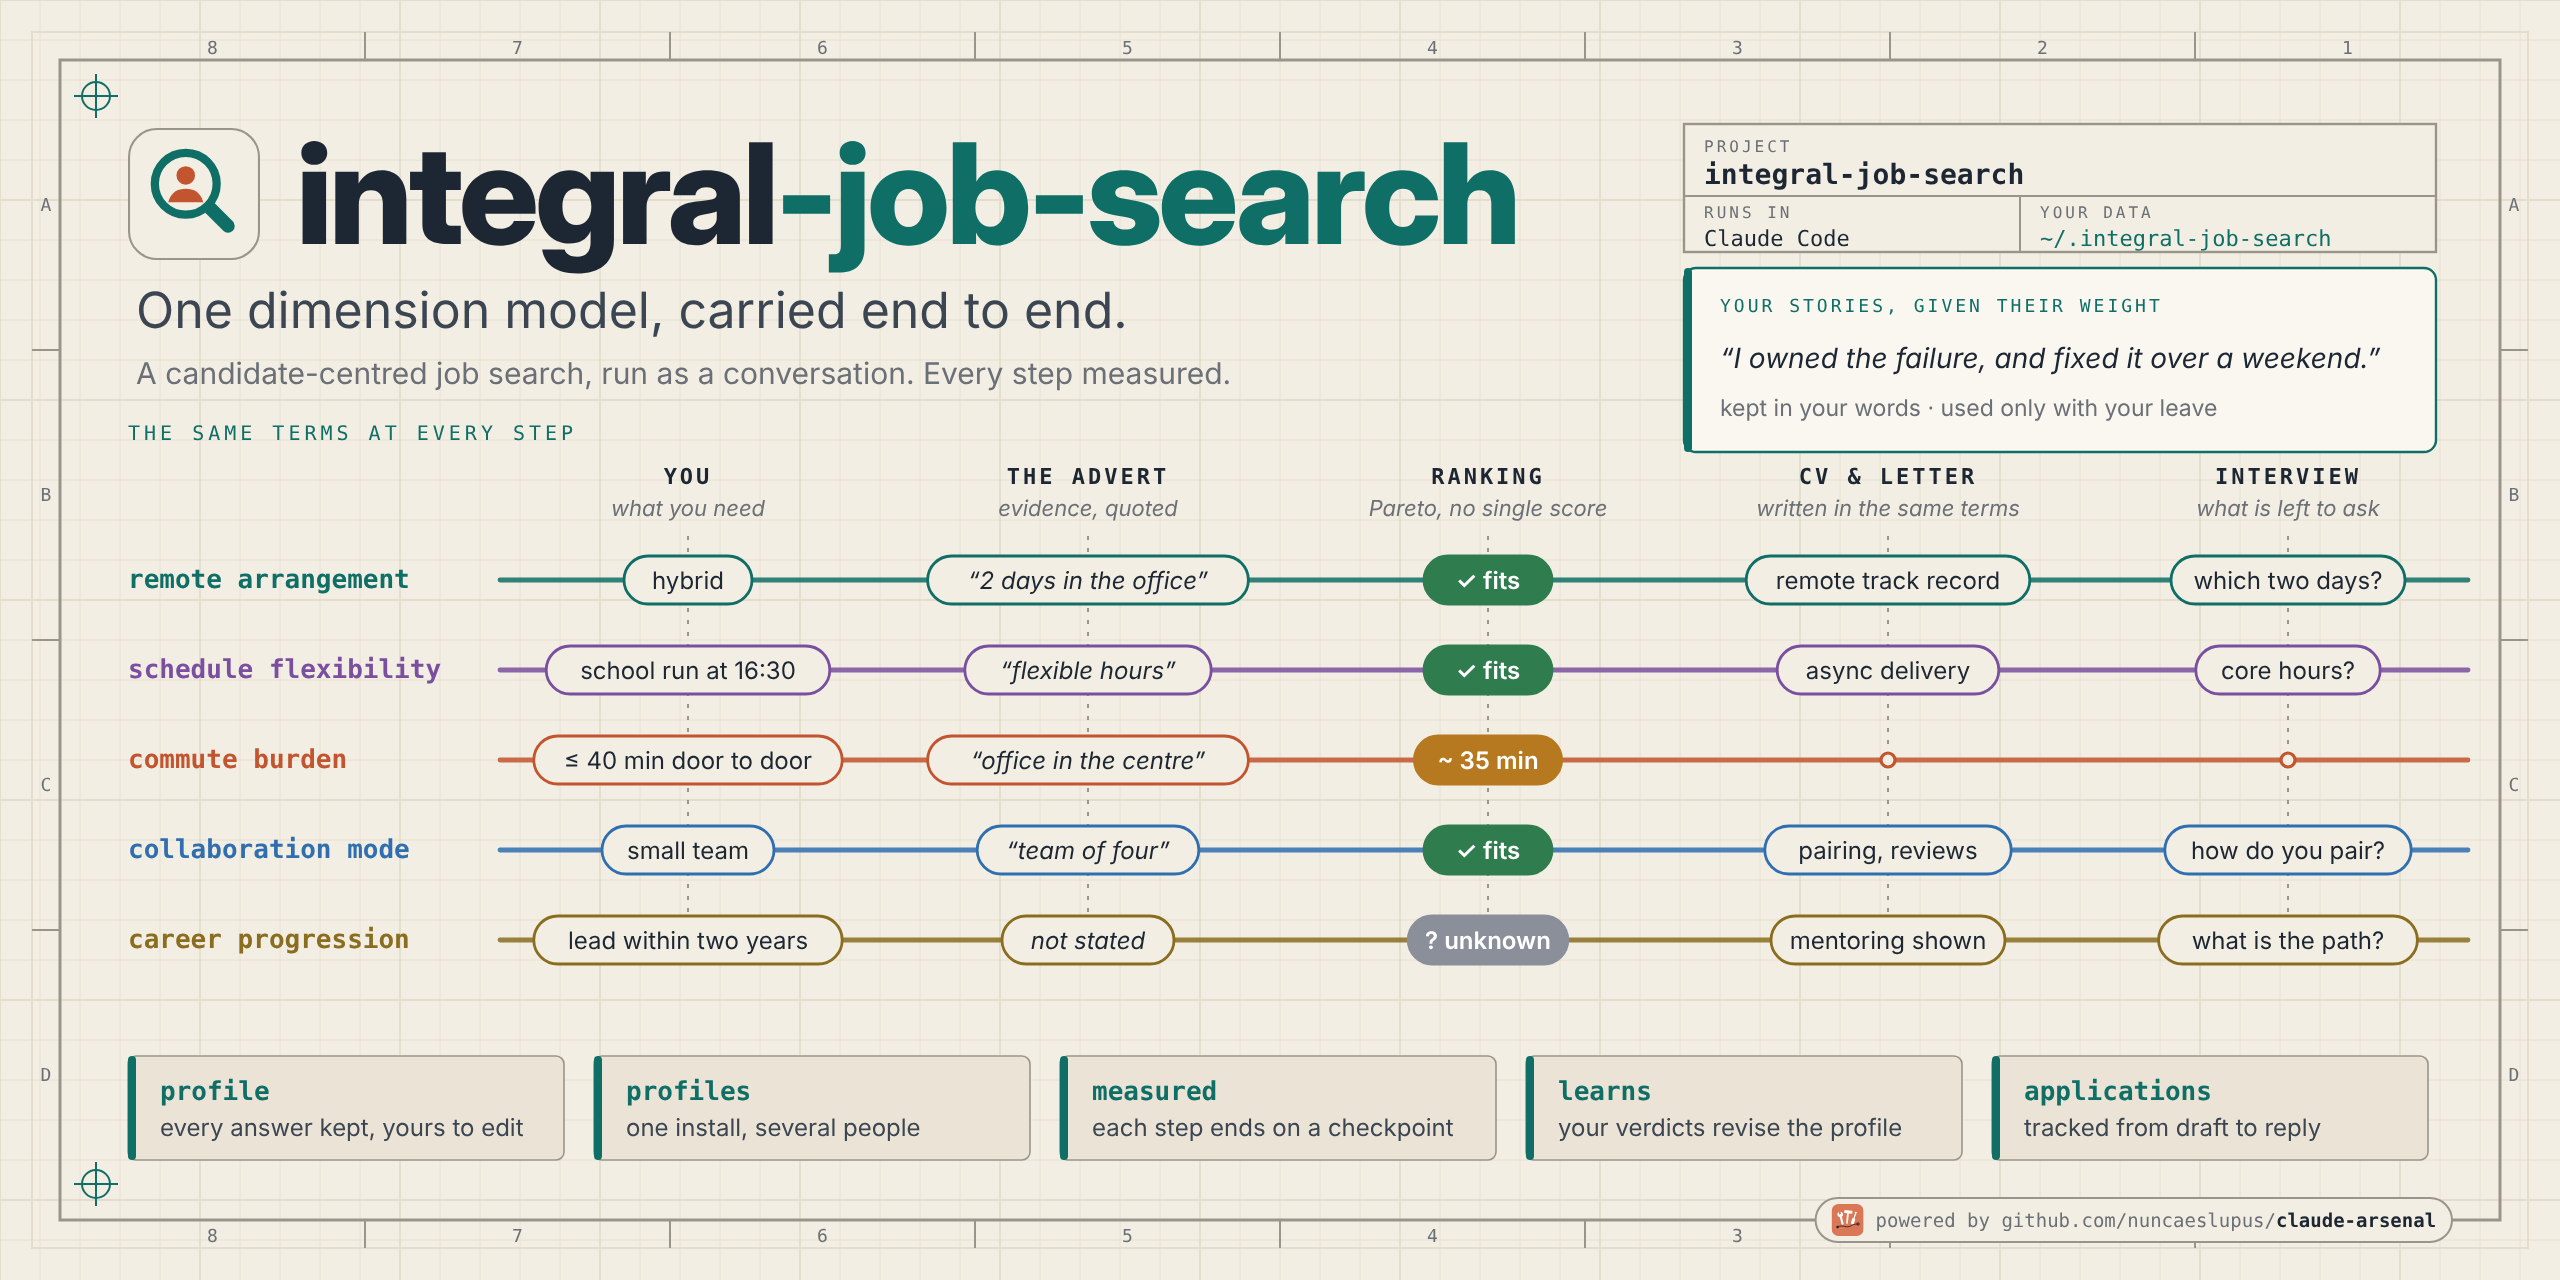
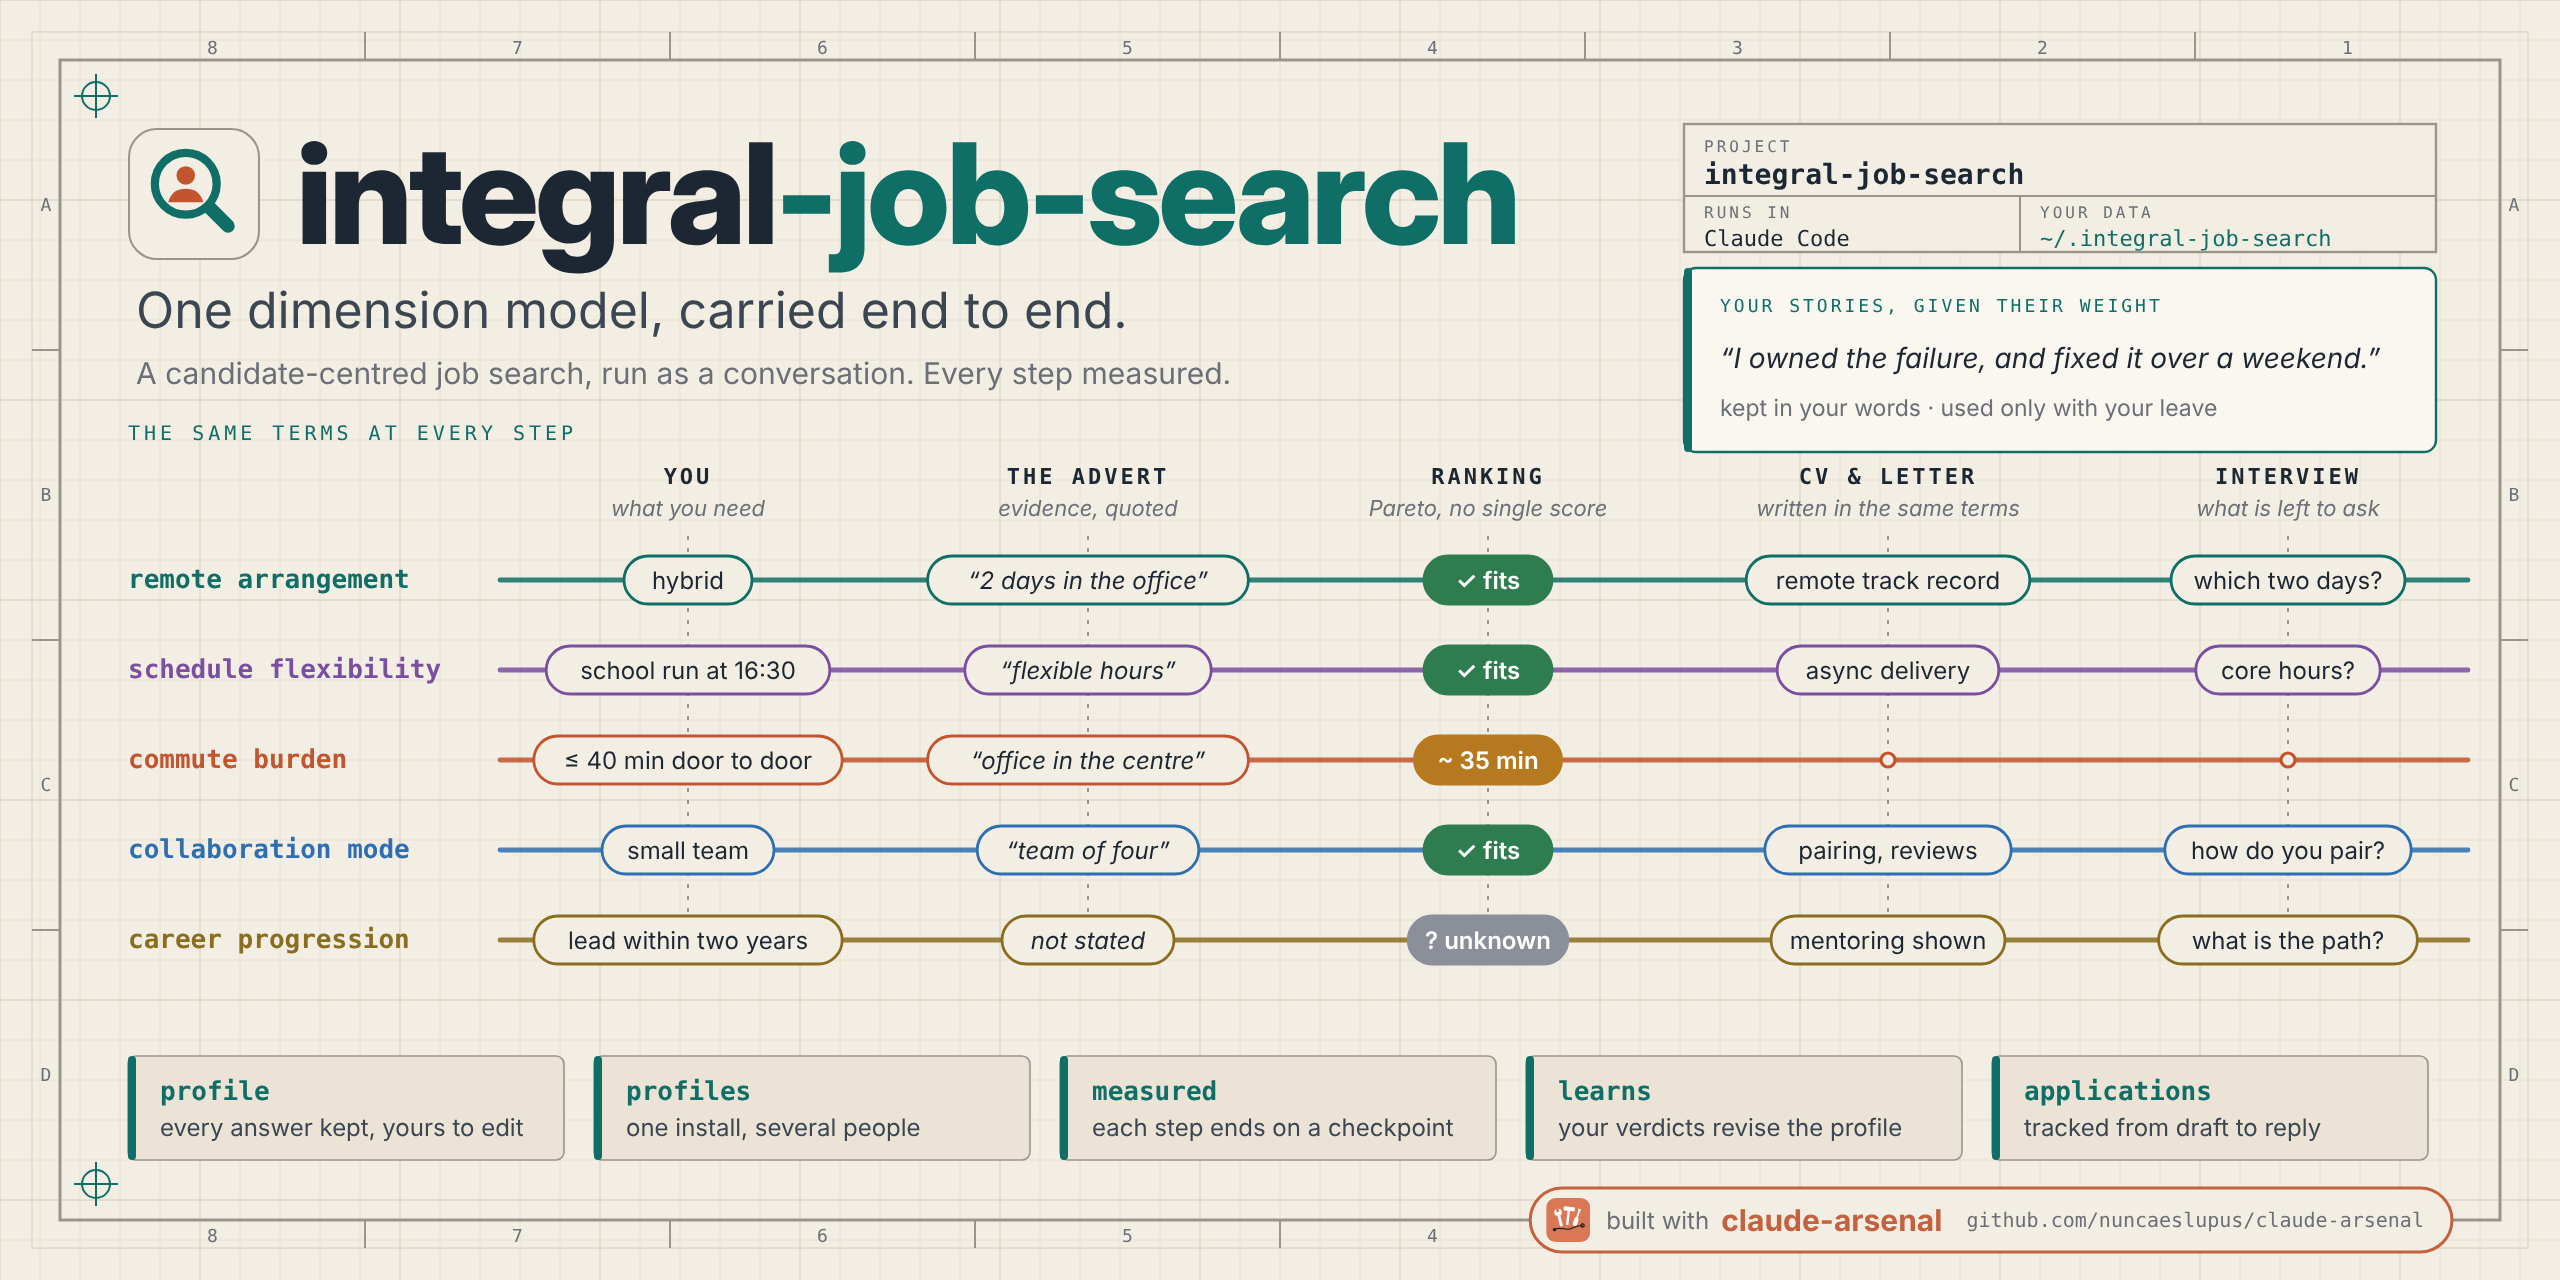
docs(hero): make the claude-arsenal stamp a bold "built with" badge
Set "claude-arsenal" large and bold in the arsenal orange inside an orange-bordered pill, so the credit reads at README scale.

Claude-Session: https://claude.ai/code/session_01LCwNvQnUhGTW4nvYBmNboX

Changed region(s): [[0.5938, 0.9062, 0.9688, 1.0]]

diff --git a/tools/hero.py b/tools/hero.py
@@ -342,27 +342,46 @@ def features() -> list[str]:
     return out
 
 
-#: claude-arsenal's own logo, for the "powered by" stamp on the frame.
+#: claude-arsenal's own logo, for the "built with" stamp on the frame.
 ARSENAL_LOGO = ROOT / "docs" / "claude-arsenal-logo.svg"
+ARSENAL = "#c4623f"  # claude-arsenal's own orange
+#: DejaVu Sans Mono's advance, in em.
+MONO_EM = 0.602
+
+
+def width(s: str, size: float, face: str) -> float:
+    """Advance of `s` in an installed face (an fc-match pattern)."""
+    from PIL import ImageFont  # type: ignore[import-not-found, unused-ignore]
+
+    path = subprocess.run(
+        ["fc-match", "-f", "%{file}", face], capture_output=True, text=True, check=True
+    ).stdout
+    return float(ImageFont.truetype(path, 100).getlength(s)) * size / 100
 
 
 def powered_by() -> list[str]:
-    """A "powered by" stamp for claude-arsenal, set on the frame's bottom edge at the right."""
+    """A "built with" badge for claude-arsenal, set on the frame's bottom edge at the right."""
     src = ARSENAL_LOGO.read_text().strip()
     inner = src[src.index(">") + 1 : src.rindex("</svg>")]
-    lead, name = "powered by github.com/nuncaeslupus/", "claude-arsenal"
-    size, tile, pad, gap = 9.5, 16, 8, 6
-    width = pad + tile + gap + (len(lead) + len(name)) * size * 0.602 + pad
+    lead, name, url = "built with", "claude-arsenal", "github.com/nuncaeslupus/claude-arsenal"
+    tile, pad, gap = 22, 8, 8
+    lead_w = width(lead, 12, "Inter")
+    name_w = width(name, 15, "Inter:bold")
+    url_w = len(url) * 10 * MONO_EM
+    total = pad + tile + gap + lead_w + 6 + name_w + 12 + url_w + pad + 6
     right, cy = W - 30 - 24, H - 30
-    x = right - width
+    x = right - total
+    tx = x + pad + tile + gap
     return [
-        f'<rect x="{x:.1f}" y="{cy - 11}" width="{width:.1f}" height="22" rx="11" '
-        f'fill="{PAPER}" stroke="{FRAME}"/>',
+        f'<rect x="{x:.1f}" y="{cy - 16}" width="{total:.1f}" height="32" rx="16" '
+        f'fill="{PAPER}" stroke="{ARSENAL}" stroke-width="1.5"/>',
         f'<svg x="{x + pad:.1f}" y="{cy - tile / 2}" width="{tile}" height="{tile}" '
         f'viewBox="0 0 64 64">{inner}</svg>',
-        f'<text x="{x + pad + tile + gap:.1f}" y="{cy + 3.4}" font-family="{MONO}" '
-        f'font-size="{size}" fill="{DIM}">{lead}'
-        f'<tspan font-weight="700" fill="{INK}">{name}</tspan></text>',
+        text(round(tx, 1), cy + 4.3, lead, size=12, fill=DIM),
+        text(round(tx + lead_w + 6, 1), cy + 5.3, name, size=15, fill=ARSENAL, weight=700),
+        text(
+            round(tx + lead_w + 6 + name_w + 12, 1), cy + 3.6, url, size=10, fill=DIM, family=MONO
+        ),
     ]
 
 
